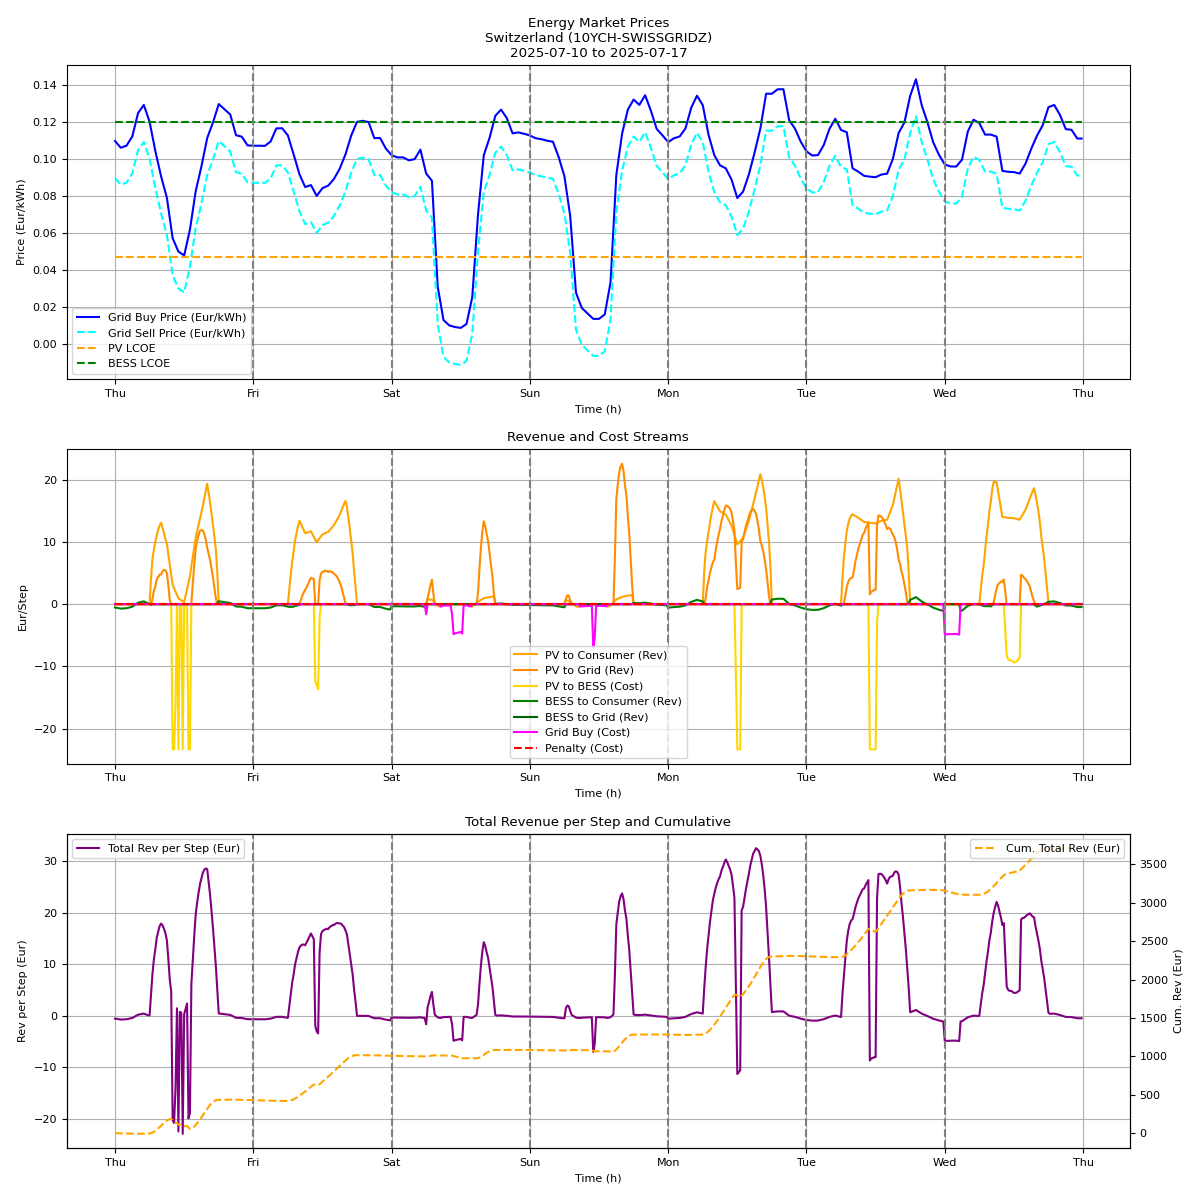
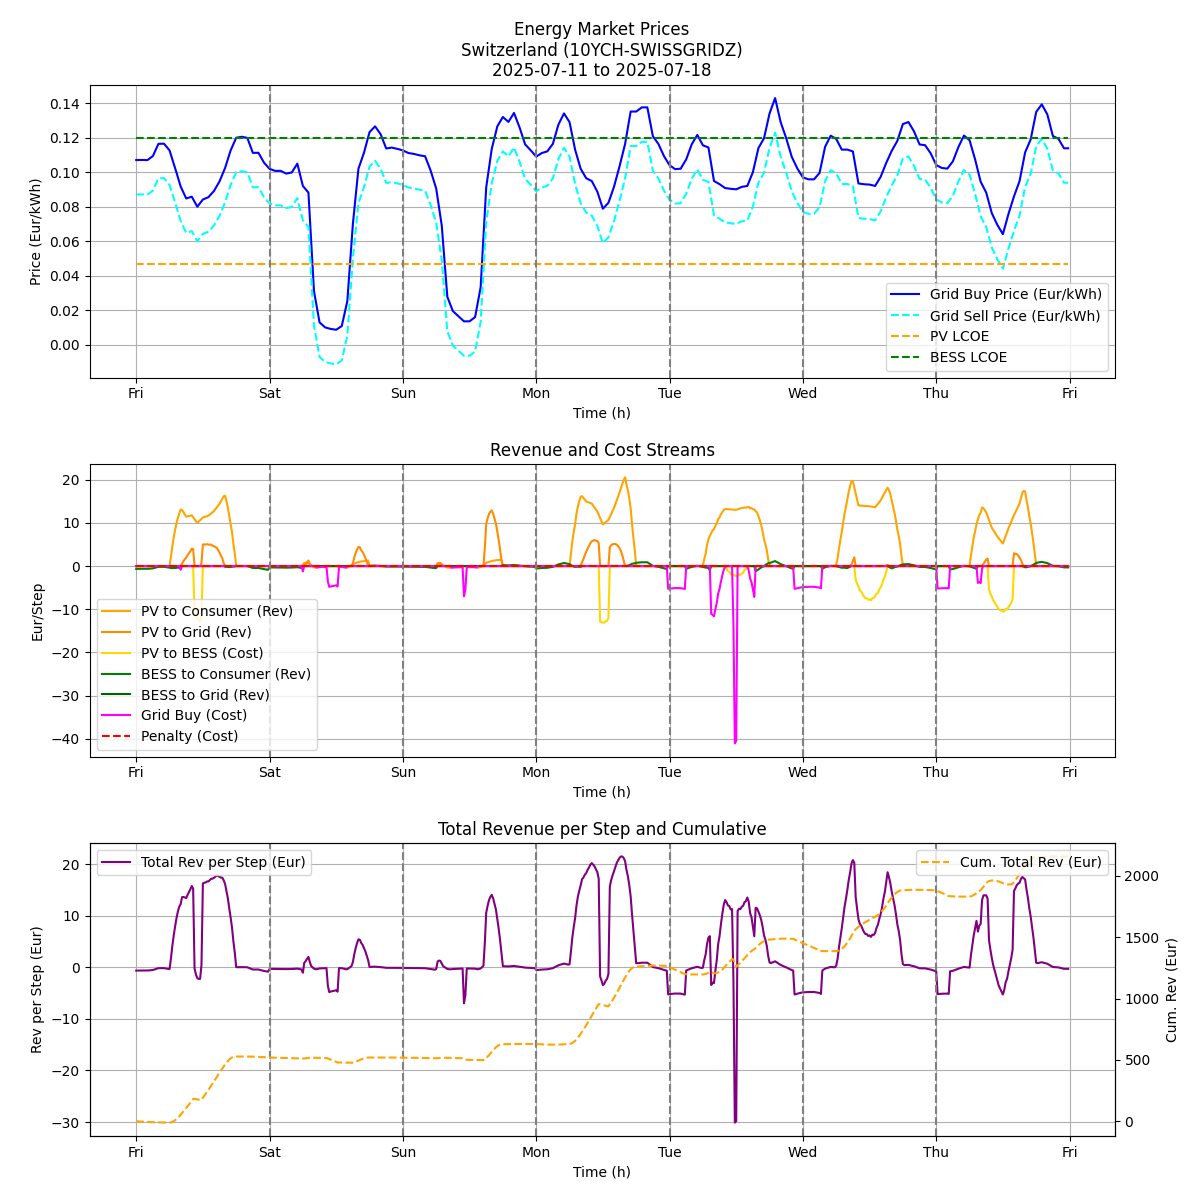
BIG UPDATE PROJECT STRUCTURE, ADDED SSR

diff --git a/Computing Files/load_data.py b/Computing Files/load_data.py
@@ -6,49 +6,73 @@ import requests
 from xml.etree import ElementTree
 import warnings
 
+import numpy as np
+import pandas as pd
+import random
+from datetime import datetime, timedelta, timezone
+import requests
+from xml.etree import ElementTree
+import warnings
+
+# Define time framework constants here (moved from main script)
+time_steps = np.arange(0, 168, 0.25)
+n_steps = len(time_steps)
+delta_t = 0.25
+time_indices = range(n_steps)
+
 def get_dayahead_prices(api_key: str, area_code: str, start: datetime = None, end: datetime = None):
+    """
+    Get day-ahead prices from ENTSO-E API.
+    Adapted from https://gist.github.com/jpulakka/f866e37dcedeede31e96a34e9f06ed7a
+    This function constructs the API URL, sends a GET request, parses the XML response,
+    and extracts time-stamped prices into a dictionary.
+    """
+    # Handling default start time if not provided
     if not start:
-        start = datetime.now(timezone.utc)
+        start = datetime.now(timezone.utc)  # Use current UTC time if no start is given
+    # Converting start to UTC if it's in another timezone
     elif start.tzinfo and start.tzinfo != timezone.utc:
-        start = start.astimezone(timezone.utc)
+        start = start.astimezone(timezone.utc)  # Convert to UTC
+    # Handling default end time (1 day after start)
     if not end:
-        end = start + timedelta(days=1)
+        end = start + timedelta(days=1)  # Default to 1 day period
+    # Converting end to UTC if needed
     elif end.tzinfo and end.tzinfo != timezone.utc:
-        end = end.astimezone(timezone.utc)
-    fmt = '%Y%m%d%H00'
+        end = end.astimezone(timezone.utc)  # Convert to UTC
+    fmt = '%Y%m%d%H00'  # Format for API date parameters (YYYYMMDDHH00)
+    # Constructing the API URL with parameters for document type (A44 for day-ahead prices), domains, and period
     url = f'https://web-api.tp.entsoe.eu/api?securityToken={api_key}&documentType=A44&in_Domain={area_code}' \
           f'&out_Domain={area_code}&periodStart={start.strftime(fmt)}&periodEnd={end.strftime(fmt)}'
-    response = requests.get(url)
-    response.raise_for_status()
-    xml_str = response.text
-    result = {}
-    for child in ElementTree.fromstring(xml_str):
-        if child.tag.endswith("TimeSeries"):
-            for ts_child in child:
-                if ts_child.tag.endswith("Period"):
-                    for pe_child in ts_child:
-                        if pe_child.tag.endswith("timeInterval"):
-                            for ti_child in pe_child:
-                                if ti_child.tag.endswith("start"):
+    response = requests.get(url)  # Sending GET request to the API
+    response.raise_for_status()  # Raising an error if the request fails (e.g., HTTP error)
+    xml_str = response.text  # Getting the XML response as a string
+    result = {}  # Initializing an empty dictionary to store time-price pairs
+    # Parsing the XML string into an ElementTree object
+    for child in ElementTree.fromstring(xml_str):  # Iterating over root children
+        if child.tag.endswith("TimeSeries"):  # Finding TimeSeries elements
+            for ts_child in child:  # Iterating over TimeSeries children
+                if ts_child.tag.endswith("Period"):  # Finding Period elements
+                    for pe_child in ts_child:  # Iterating over Period children
+                        if pe_child.tag.endswith("timeInterval"):  # Finding timeInterval
+                            for ti_child in pe_child:  # Iterating over timeInterval children
+                                if ti_child.tag.endswith("start"):  # Extracting start time
+                                    # Parsing the start time string to datetime object
                                     start_time = datetime.strptime(ti_child.text, '%Y-%m-%dT%H:%MZ').replace(tzinfo=timezone.utc)
-                        elif pe_child.tag.endswith("Point"):
-                            for po_child in pe_child:
-                                if po_child.tag.endswith("position"):
-                                    delta = int(po_child.text) - 1
-                                    time = start_time + timedelta(hours=delta)
-                                elif po_child.tag.endswith("price.amount"):
-                                    price = float(po_child.text)
-                                    result[time] = price
-    return result
+                        elif pe_child.tag.endswith("Point"):  # Finding Point elements (hourly data)
+                            for po_child in pe_child:  # Iterating over Point children
+                                if po_child.tag.endswith("position"):  # Getting position (hour offset)
+                                    delta = int(po_child.text) - 1  # Position starts from 1, so subtract 1
+                                    time = start_time + timedelta(hours=delta)  # Calculating timestamp
+                                elif po_child.tag.endswith("price.amount"):  # Getting price
+                                    price = float(po_child.text)  # Converting price to float
+                                    result[time] = price  # Storing in result dictionary
+    return result  # Returning the dictionary of timestamps to prices
 
 def load():
-    pv_lcoe_data = pd.read_csv('C:/Users/dell/V1_First_Model/Input Data Files/PV_LCOE.csv', comment='#')
-    lcoe_pv = pv_lcoe_data['LCOE_PV'].iloc[0]
-
-    bess_lcoe_data = pd.read_csv('C:/Users/dell/V1_First_Model/Input Data Files/BESS_LCOE.csv', comment='#')
-    lcoe_bess = bess_lcoe_data['LCOE_BESS'].iloc[0]
-
     constants_data = pd.read_csv('C:/Users/dell/V1_First_Model/Input Data Files/Constants_Plant.csv', comment='#')
+    entsoe_token = constants_data[constants_data['Parameter'] == 'ENTSOE_TOKEN']['Value'].iloc[0]
+    bidding_zone = constants_data[constants_data['Parameter'] == 'BIDDING_ZONE']['Value'].iloc[0]
+    timezone_offset = int(constants_data[constants_data['Parameter'] == 'TIMEZONE_OFFSET']['Value'].iloc[0])
     bess_capacity = float(constants_data[constants_data['Parameter'] == 'BESS_Capacity']['Value'].iloc[0])
     bess_power_limit = float(constants_data[constants_data['Parameter'] == 'BESS_Power_Limit']['Value'].iloc[0])
     eta_charge = float(constants_data[constants_data['Parameter'] == 'BESS_Efficiency_Charge']['Value'].iloc[0])
@@ -56,13 +80,19 @@ def load():
     soc_initial = float(constants_data[constants_data['Parameter'] == 'SOC_Initial']['Value'].iloc[0])
     pi_consumer = float(constants_data[constants_data['Parameter'] == 'Consumer_Price']['Value'].iloc[0])
 
+    pv_lcoe_data = pd.read_csv('C:/Users/dell/V1_First_Model/Input Data Files/PV_LCOE.csv', comment='#')
+    lcoe_pv = pv_lcoe_data['LCOE_PV'].iloc[0]
+
+    bess_lcoe_data = pd.read_csv('C:/Users/dell/V1_First_Model/Input Data Files/BESS_LCOE.csv', comment='#')
+    lcoe_bess = bess_lcoe_data['LCOE_BESS'].iloc[0]
+
     utc_now = datetime.now(timezone.utc)
     start_date = (utc_now - timedelta(days=7)).replace(hour=0, minute=0, second=0, microsecond=0)
     end_date = utc_now.replace(hour=0, minute=0, second=0, microsecond=0)
     try:
-        prices_dict = get_dayahead_prices(ENTSOE_TOKEN, BIDDING_ZONE, start_date, end_date)
+        prices_dict = get_dayahead_prices(entsoe_token, bidding_zone, start_date, end_date)
         sorted_times = sorted(prices_dict.keys())
-        print(f"API debug: Fetched {len(sorted_times)} prices for zone {BIDDING_ZONE}")
+        print(f"API debug: Fetched {len(sorted_times)} prices for zone {bidding_zone}")
         if sorted_times:
             print(f"API debug: Date range: {sorted_times[0]} to {sorted_times[-1]}")
         
@@ -91,7 +121,7 @@ def load():
     else:
         grid_price_hourly = np.array([prices_dict[t] for t in sorted_times]) / 1000
 
-    local_start_time = sorted_times[0] + timedelta(hours=TIMEZONE_OFFSET)
+    local_start_time = sorted_times[0] + timedelta(hours=timezone_offset)
     start_weekday = local_start_time.weekday()
 
     time_hourly = np.arange(0, 168, 1)
@@ -131,7 +161,7 @@ def load():
         else:
             consumer_demand[i] = 70.0
 
-    bidding_zone_desc = f"Switzerland ({BIDDING_ZONE})"
+    bidding_zone_desc = f"Switzerland ({bidding_zone})"
     period_start = local_start_time.strftime('%Y-%m-%d')
     period_end = (local_start_time + timedelta(days=7)).strftime('%Y-%m-%d')
     period_str = f"{period_start} to {period_end}"

diff --git a/Computing Files/main_Optimization.py b/Computing Files/main_Optimization.py
@@ -4,6 +4,7 @@ import solve
 import post_process
 import plots
 
+
 # Load all input data
 data = load_data.load()
 
@@ -20,12 +21,13 @@ objective = model.build_objective(variables, data)
 status, problem = solve.solve_problem(objective, constraints)
 
 # Process and print results if optimal
-if status == cp.OPTIMAL:
+if status == 'optimal':
     results = post_process.extract_results(variables, status)
     revenues = post_process.compute_revenues(results, data)
     post_process.print_results(revenues, results, data)
 
     # Generate plots
+    days = ['Mon', 'Tue', 'Wed', 'Thu', 'Fri', 'Sat', 'Sun']
     data['day_labels'] = [days[(data['start_weekday'] + d) % 7] for d in range(8)]  # Add day_labels to data
     plots.plot_energy_flows(results, data)
     plots.plot_financials(revenues, data)

diff --git a/Computing Files/post_process.py b/Computing Files/post_process.py
@@ -1,7 +1,7 @@
 import numpy as np
 
 def extract_results(variables, status):
-    if status != cp.OPTIMAL:
+    if status != 'optimal':
         return None
     results = {}
     results['P_PV_consumer_vals'] = variables['P_PV_consumer'].value
